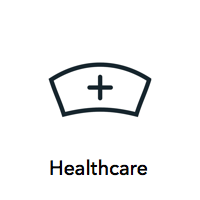
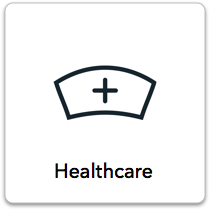
update dashboard

diff --git a/tribe_explorers/app/assets/stylesheets/main.scss b/tribe_explorers/app/assets/stylesheets/main.scss
@@ -6,9 +6,7 @@
    {
       /* basic styling */
       width: auto;
-      height: 200px;
-      border: 1px solid #555;
-      font: 14px Arial;
+      height: auto;
 
       /* flexbox setup */
       display: -webkit-flex;
